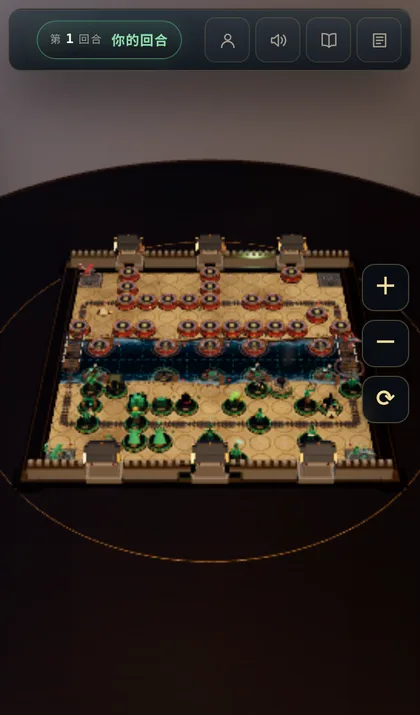
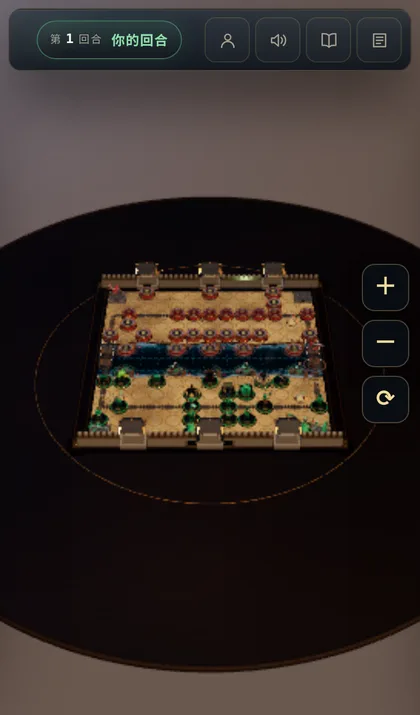
fix(mobile): 鏡頭工具列預留右側安全區，避免遮住棋盤右緣點擊；更新手機截圖

diff --git a/src/main.js b/src/main.js
@@ -977,6 +977,7 @@ function updateMobileTools(show) {
     visible = !!show && app.isCoarse;
   }
   el.classList.toggle('is-visible', visible);
+  scheduleInsets(140);
 }
 
 function mobileZoom(factor) {
@@ -1014,8 +1015,11 @@ function computeInsets() {
   const H = window.innerHeight || 600;
   let top = 6;
   let bottom = 6;
-  const left = 6;
-  const right = 6;
+  let left = 6;
+  let right = 6;
+  // 右側浮動鏡頭工具（44px 寬 + 安全距）不可覆蓋棋盤，否則會吃掉點擊
+  const toolsEl = app.mobileTools || document.getElementById('mobile-tools');
+  if (toolsEl && toolsEl.classList.contains('is-visible')) right = Math.max(right, 58);
   if (app.phase === 'setup') {
     const tray = document.querySelector('.setup__tray');
     if (tray) {
